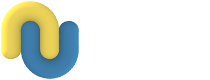
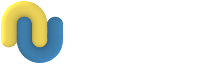
fix science page

diff --git a/science.html b/science.html
@@ -5,22 +5,25 @@ title: Science
 
 <div class="center">
 <h1>Scientific publications</h1>
-<p>Lorem ipsum dolor sit amet, consectetur adipiscing elit, sed do eiusmod
-tempor incididunt ut labore et dolore magna aliqua. Ut enim ad minim veniam,
-quis nostrud exercitation ullamco laboris nisi ut aliquip ex ea commodo
-consequat. Duis aute irure dolor in reprehenderit in voluptate velit esse
-cillum dolore eu fugiat nulla pariatur. Excepteur sint occaecat cupidatat non
-proident, sunt in culpa qui officia deserunt mollit anim id est laborum.</p>
+<p>The flexibility and versatility of Nutils' toolset makes it the ideal suite
+for developing and testing new numerical techniques and formulations. This has
+led to an ever growing list of scientific publications in the fields of
+computational physics, applied mechanics, biomechanical modelling, marine
+engineering, and others. If your Nutils powered publication is no listed below
+please send an email to <a href="mailto:info@nutils.org">info@nutils.org</a> to
+have it included.
+</p>
 <div class="columns bwhover">
-<ol reversed>
+<dl>
 {% for post in site.posts %}
   {% if post.pub %}
-    <li style="padding-top: 10px;">
+    <dt style="color: gray;">{{ post.date | date: '%b %Y' }}
     {% if post.thumb %}<a href="{{ post.url }}"><img src="/thumbs/{{ post.thumb }}.png" width="120" height="120" style="float: right; padding-left: 10px; padding-bottom: 10px;"></a>{% endif %}
+    </dt><dd style="margin: 0px 0px 10px 2em;">
     {{ post.pub.author }}. <a href="{{ post.pub.url }}">{{ post.pub.title }}</a>. {{ post.pub.journal }}.
-    </li>
+    </dd>
   {% endif %}
 {% endfor %}
-</ol>
+</dl>
 </div>
 </div>

diff --git a/_layouts/default.html b/_layouts/default.html
@@ -6,7 +6,7 @@ layout: body
   <table style="width: 100%; margin-bottom: 32px;">
     <tr>
       <td style="text-align: left;">
-        <a href="/"><img src="/images/nutils.png" width="210" height="80"></a>
+        <a href="/"><img src="/images/nutils.png" width="200" height="64"></a>
       </td>
       <td style="text-align: right;">
         <ul>
